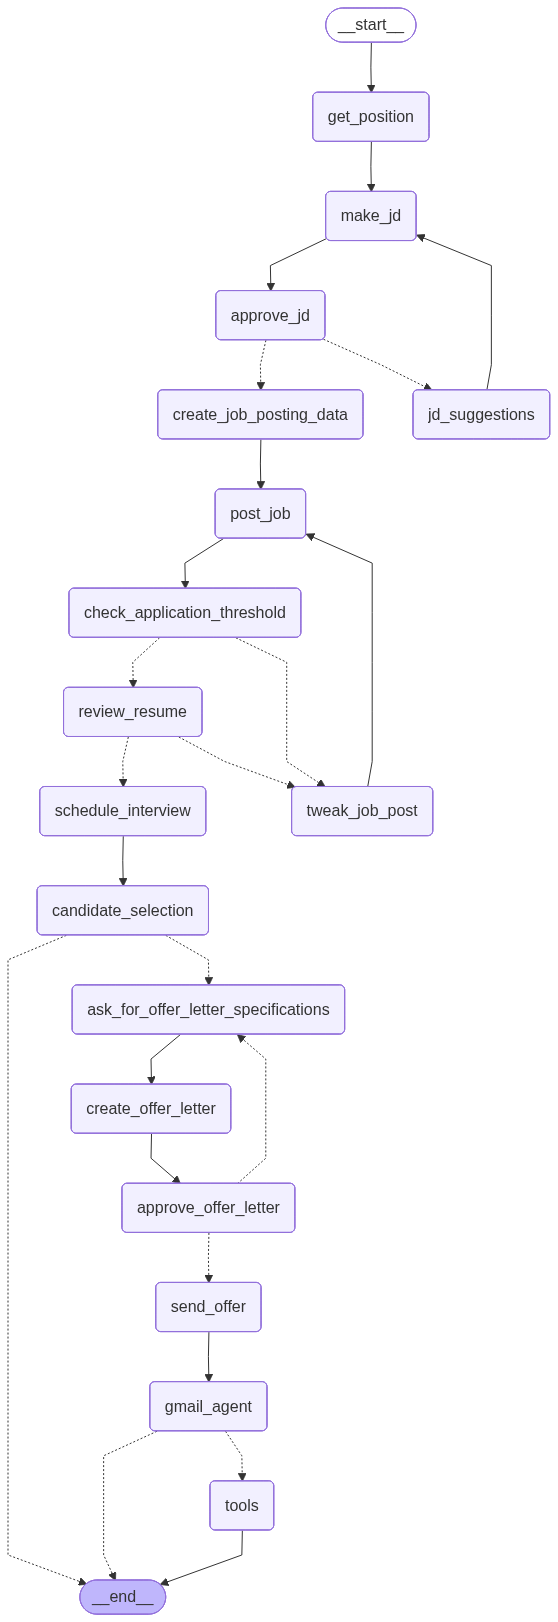
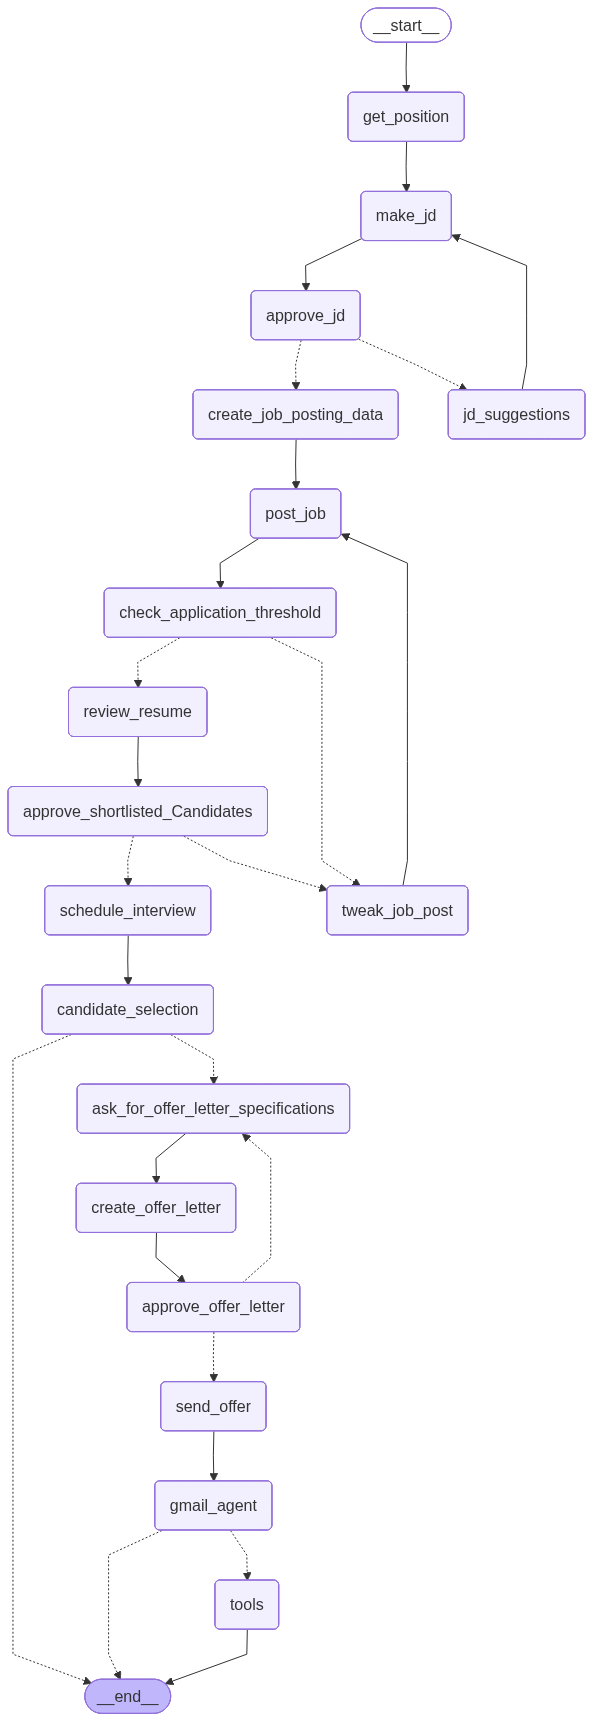
minor changes for candidate selection

diff --git a/HrAssistantAgent/graphUtil.py b/HrAssistantAgent/graphUtil.py
@@ -239,19 +239,27 @@ class HRRecruitingGraph:
         candidate_summary = rag.full_run(Resume, state['jd'])
         state['selected_candidate_data'] = candidate_summary
 
-        st.write(f"Selected Candidate: {state['selected_candidate_data']}")
+        print(f"Selected Candidate: {state['selected_candidate_data']}")
+        
+        print("*"*45)
+        print("Reviewed resumes. Moving to selection.")
+        return {"resume_reviewed": True, "status": "resume_reviewed", "selected_candidate_data": state['selected_candidate_data']}
 
+    @staticmethod
+    def approve_shortlisted_Candidates(state):
+        decision = interrupt("Waiting for candidate selection approval and to proceed with interview.")
 
-        decision = interrupt("should we Proceed with interview? (yes/no)")
-
+        # Graph resumed with a decision. Process it.
         if decision == "yes":
             state["schedule_interview"] = True
         else:
             state["schedule_interview"] = False
-        
-        print("*"*45)
-        print("Reviewed resumes. Moving to selection.")
-        return {"resume_reviewed": True, "status": "resume_reviewed", "selected_candidate_data": state['selected_candidate_data'], "schedule_interview": state["schedule_interview"]}
+
+        print(f"Candidate selection decision received: {decision}")
+
+        # Clear the decision from state for the next graph run, if applicable
+        # This dictionary is what the graph expects as the node's output.
+        return {"schedule_interview": state["schedule_interview"]}
 
     @staticmethod
     def schedule_interview(state):
@@ -407,6 +415,7 @@ class HRRecruitingGraph:
         graphBuilder.add_node("post_job", self.post_job)
         graphBuilder.add_node("tweak_job_post", self.tweak_job_post)
         graphBuilder.add_node("review_resume", self.review_resume)
+        graphBuilder.add_node("approve_shortlisted_Candidates", self.approve_shortlisted_Candidates)
         graphBuilder.add_node("schedule_interview", self.schedule_interview)
         graphBuilder.add_node("candidate_selection", self.candidate_selection)
         graphBuilder.add_node("ask_for_offer_letter_specifications", self.ask_for_offer_letter_specifications)
@@ -439,11 +448,12 @@ class HRRecruitingGraph:
                 "tweak_job_post": "tweak_job_post"
             }
         )
+        graphBuilder.add_edge("review_resume", "approve_shortlisted_Candidates")
         graphBuilder.add_edge("tweak_job_post", "post_job")
         graphBuilder.add_edge("post_job", "check_application_threshold")
         # graphBuilder.add_edge("check_application_threshold", "review_resume")
         graphBuilder.add_conditional_edges(
-            "review_resume",
+            "approve_shortlisted_Candidates",
             self.route_interview_schedule,
             {
                 "schedule_interview": "schedule_interview",
